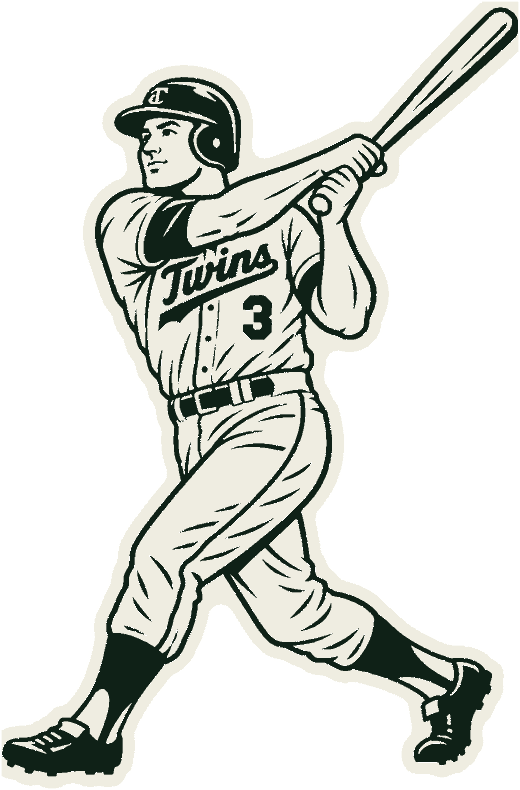
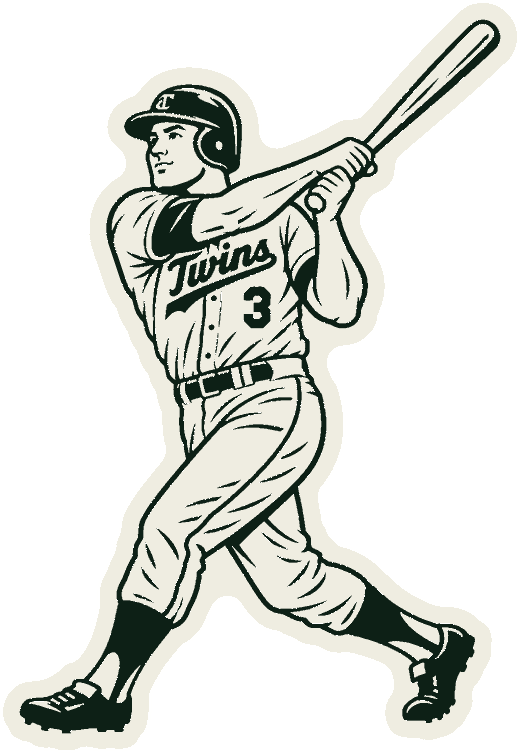
Re-cut the three new stickers so the die-cut stays round
The bat tips, the shoes and Kobe's reaching hand all came out with a
flat edge. Two causes, both mine.

The margin is grown by dilating the figure, and these drawings run to
within about twenty pixels of the canvas edge — closer than the margin
is wide. numpy clips a dilation at the array boundary, so the cut ran
into the edge of the image and stopped, square, exactly at the places
that should have been roundest. The art is now padded into free space
before anything is grown, and cropped afterwards.

Second, the margin was thinner than the rest of the family: measured
against the figure, the Jordan sticker carries about 20px of paper at
this size and these carried 13. They now measure 19 to 21 against
Jordan's 20, so the four read as one set.

Measured rather than eyeballed: for every pixel on the outer cut, the
distance to the drawing. Before, that bottomed out at 0 where the cut
had been truncated; now the thinnest point on each of the three is 16 to
18px against a median of 19 to 21, which is just resampling noise.

Claude-Session: https://claude.ai/code/session_018KmZfB3zVW6k5Pn1LkK38w

Changed region(s): [[0.0, 0.0, 1.0, 1.0]]

diff --git a/src/app/work/coqui-cardboard/page.tsx b/src/app/work/coqui-cardboard/page.tsx
@@ -105,19 +105,19 @@ export default function Coqui() {
               },
               {
                 title: "Kobe Bryant",
-                sticker: { src: "/media/kobe-sticker.png", width: 520, height: 827, size: "7.5rem", tilt: 3.5 },
+                sticker: { src: "/media/kobe-sticker.png", width: 520, height: 800, size: "7.5rem", tilt: 3.5 },
                 stat: "11,800+ cards, 1996 to now",
                 body: "The other one. His rookie year alone runs 143 cards across 25 different brands, which tells you everything about how that decade operated.",
               },
               {
                 title: "Roberto Clemente",
-                sticker: { src: "/media/clemente-sticker.png", width: 520, height: 832, size: "7.5rem", tilt: -3 },
+                sticker: { src: "/media/clemente-sticker.png", width: 520, height: 836, size: "7.5rem", tilt: -3 },
                 stat: "256 cards, complete playing-era run",
                 body: "Best Puerto Rican ballplayer who ever lived. My wife is Puerto Rican, and the coquí in the logo is as much hers as mine.",
               },
               {
                 title: "Harmon Killebrew",
-                sticker: { src: "/media/killebrew-sticker.png", width: 520, height: 790, size: "7.5rem", tilt: 4 },
+                sticker: { src: "/media/killebrew-sticker.png", width: 520, height: 753, size: "7.5rem", tilt: 4 },
                 stat: "252 cards, complete playing-era run",
                 body: "From Payette, Idaho, which is where I’m from. He’s also a relative.",
               },
